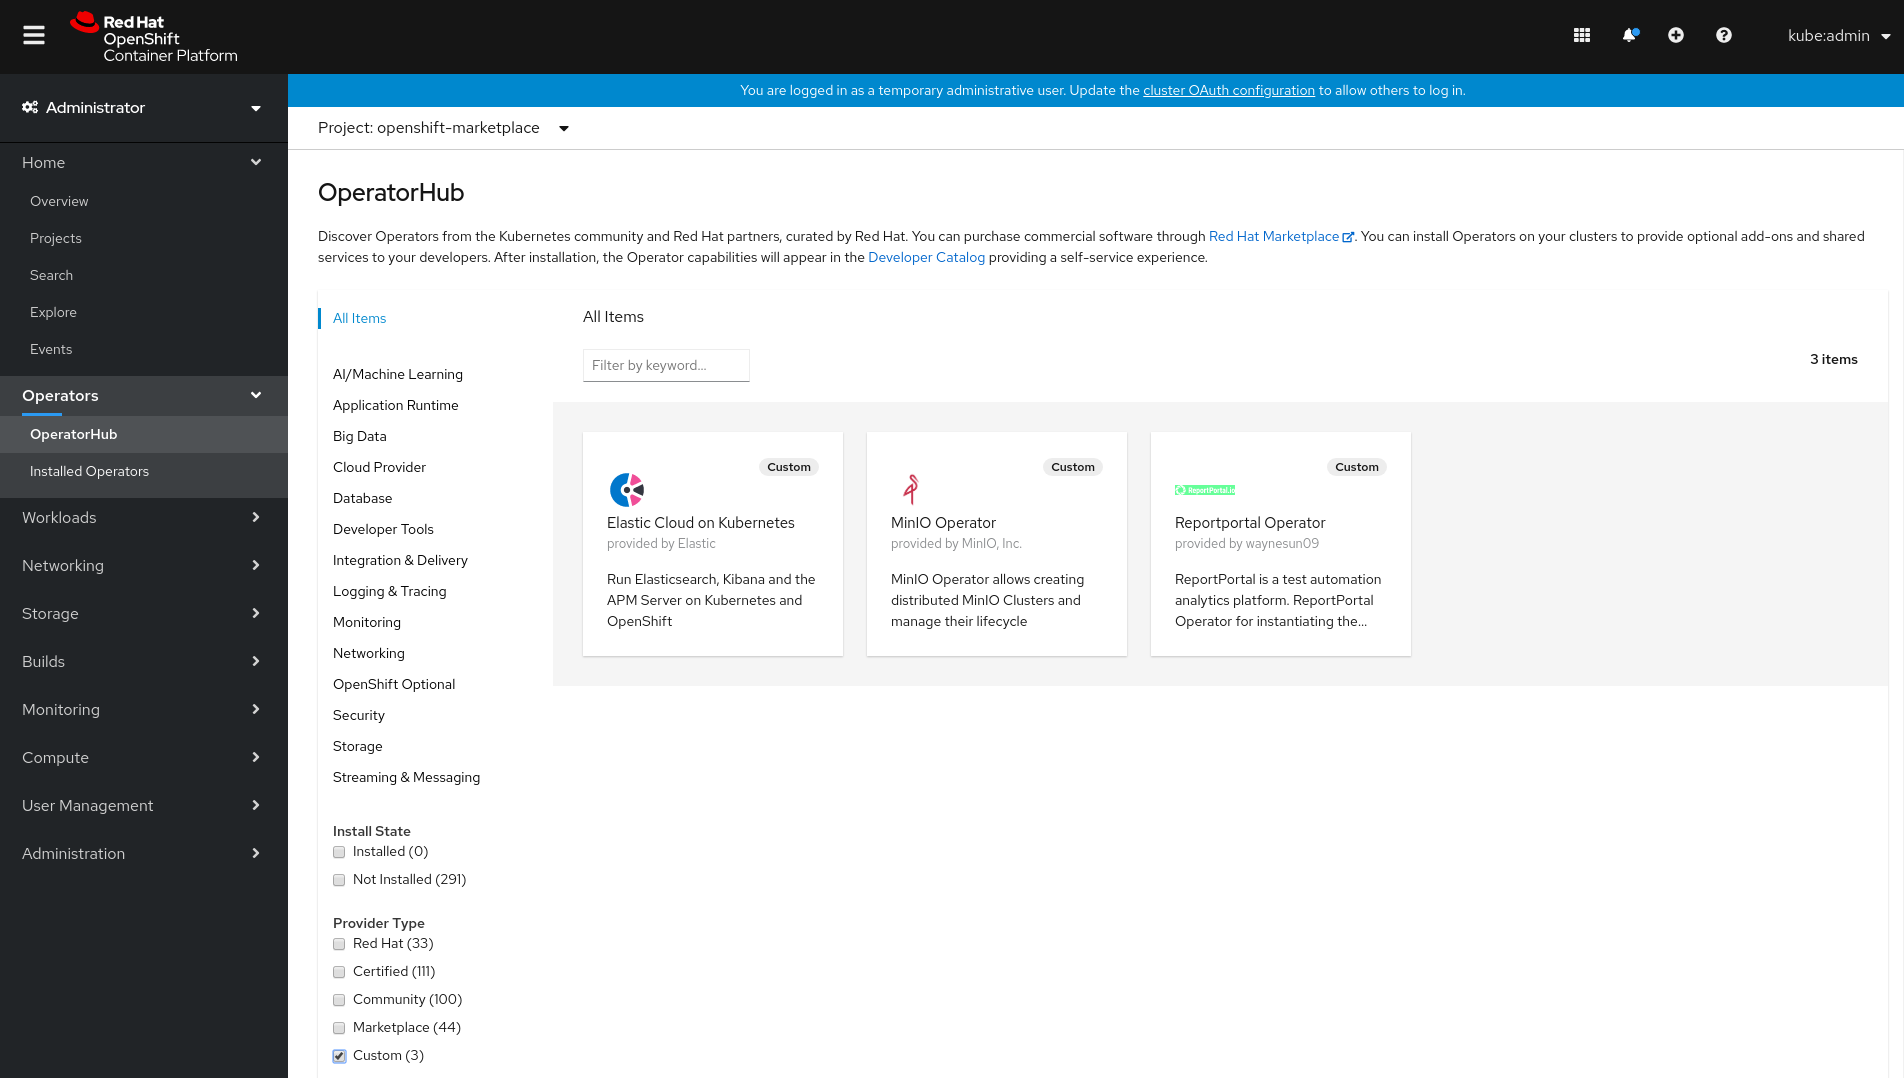
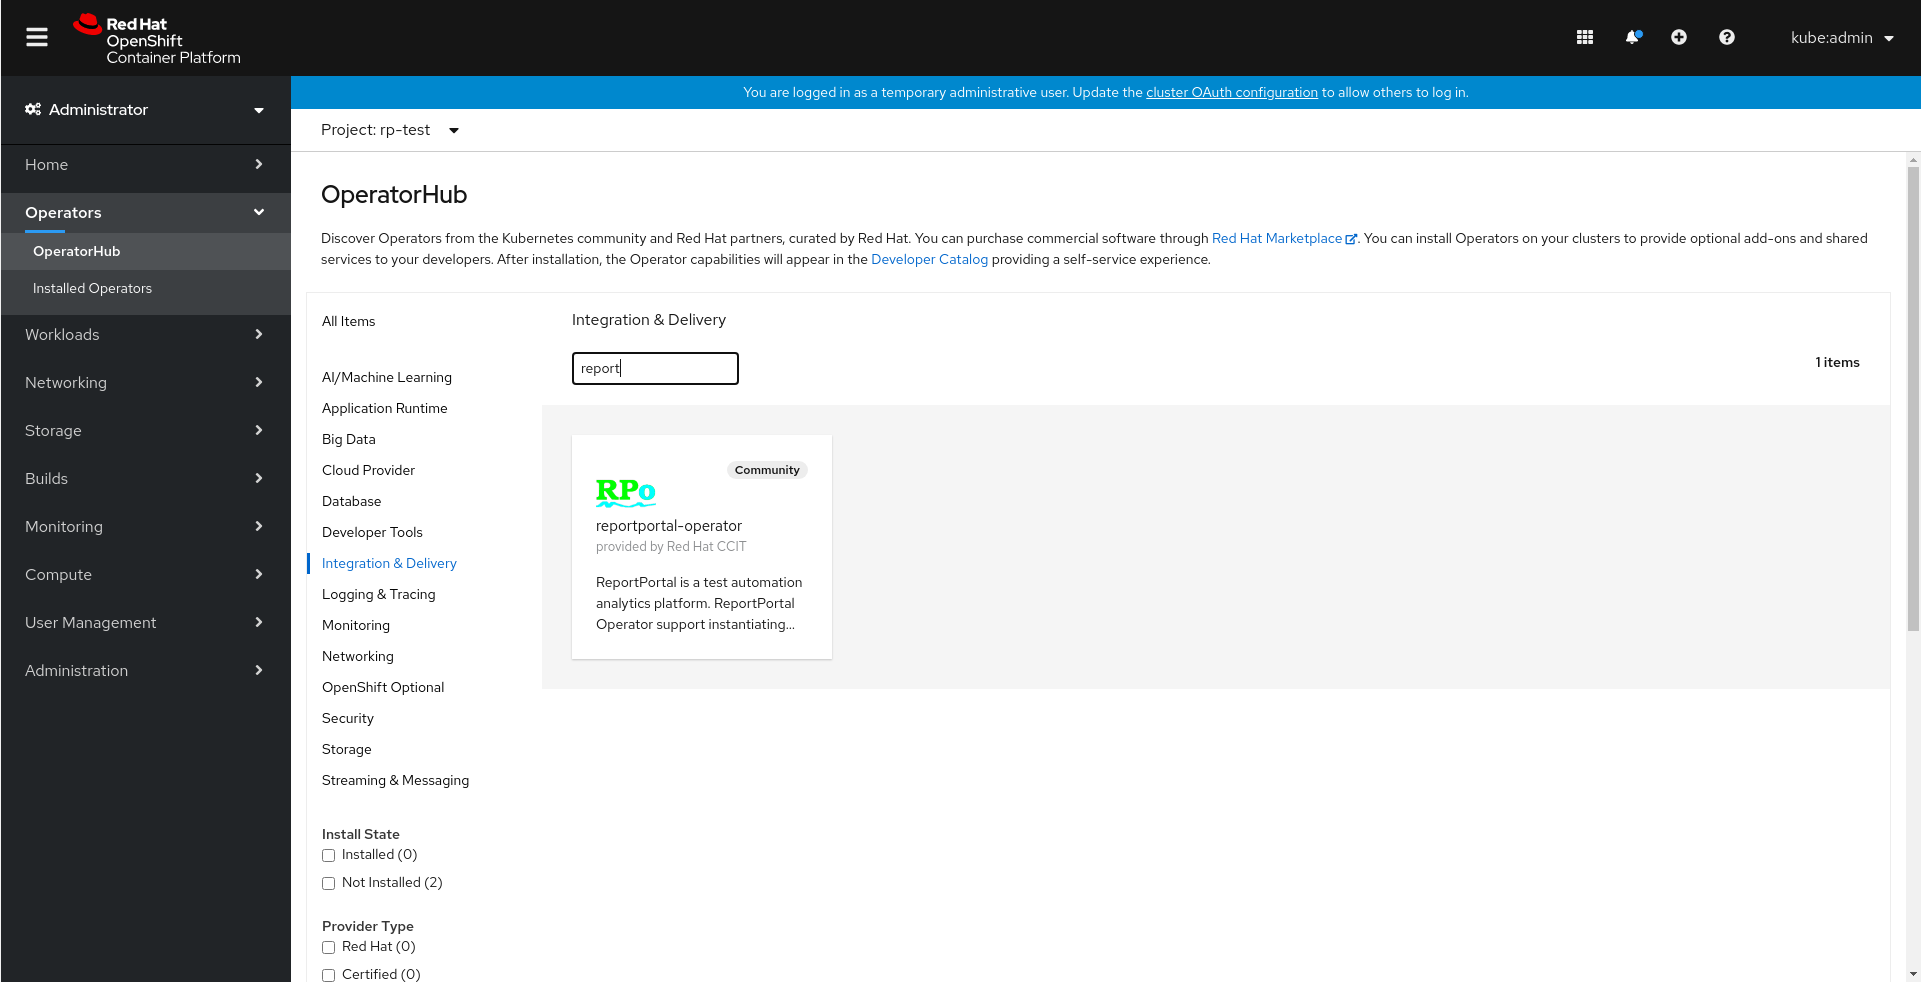
Update doc with OperatorHub install
The operator have been added into community operators, now users
could directly found it on the OCP & OKD OperatorHub.

diff --git a/README.md b/README.md
@@ -130,25 +130,9 @@ If you have specified the `app_domain` in your example, the ReportPortal instanc
 
 ## Deploy with OperatorHub GUI
 
-Check the doc [Using the index with Operator Lifecycle Manager](https://github.com/operator-framework/operator-registry#using-the-index-with-operator-lifecycle-manager)
+ReportPortal Operator have been added into [Community Operators]{https://github.com/operator-framework/community-operators}, now could be found under OperatorHub in OCP and OKD.
 
-The OLM operator bundle have been added to registry index image: https://quay.io/waynesun09/wayne-index
-
-### Create the CatalogSource
-
-Prepare a catalog source yaml:
-
-    $ cat catalog-source.yaml
-    apiVersion: operators.coreos.com/v1
-    kind: CatalogSource
-    metadata:
-      name: wayne-index
-      namespace: openshift-marketplace
-    spec:
-      sourceType: grpc
-      image: quay.io/waynesun09/wayne-index:1.0.4
-
-In the OperatorHub choose openshift-marketplace namespace and select Provider type as Custom.
+In the OperatorHub select `Integration & Delivery` for category, then in the search box input `reportportal`, the operator will be the first choice.
 
 ![alt text](docs/operatorhub.png "OperatorHub")
 
@@ -158,7 +142,9 @@ Once the Reportportal Operator is available in the Installed Operators page, sel
 
 ![alt text](docs/installed_operators.png "Installed Operators")
 
-Update the app_domain to your cluster default apps sub domain address. Then press Create.
+Update the app_domain to your cluster default apps sub domain address. Then could press Create and using default values for the rest parameters.
+
+**Note:**: If you need access your internal LDAP, JIRA services etc., you might need to replace the `service-api` and `uat` images with self built ones that include your internal CA certs installed.
 
 ![alt text](docs/example_operators.png "Example Operator Operand")
 
@@ -275,7 +261,7 @@ You could also deploy Promethues Operator in the current project and query via i
 
 ## Development
 
-Check [Development Doc](docs/development.md)
+For develop, build, test and debug, please check [Development Doc](docs/development.md) for more info.
 
 ## CI
 

diff --git a/docs/development.md b/docs/development.md
@@ -86,6 +86,30 @@ Then could create CatalogSource on your testing cluster to add the operator regi
 
 **Note:** Use sha256 rather than image tag to avoid cache problem
 
+## Create CatalogSource
+
+Check the doc [Using the index with Operator Lifecycle Manager](https://github.com/operator-framework/operator-registry#using-the-index-with-operator-lifecycle-manager)
+
+The OLM operator bundle have been added to registry index image: https://quay.io/waynesun09/wayne-index in previous step.
+
+### Create the CatalogSource
+
+Prepare a catalog source yaml:
+
+    $ cat catalog-source.yaml
+    apiVersion: operators.coreos.com/v1
+    kind: CatalogSource
+    metadata:
+      name: wayne-index
+      namespace: openshift-marketplace
+    spec:
+      sourceType: grpc
+      image: quay.io/waynesun09/wayne-index:1.0.4
+
+In the OperatorHub choose openshift-marketplace namespace and select Provider type as `wayne-index` as defined in the catalog.
+
+![alt text](docs/operatorhub-catalogsource.png "OperatorHub")
+
 ## Run bundle scorecard
 
 Check the `bundle/tests/scorecard/config.yaml` in the repo dir, update version and path if needed.
